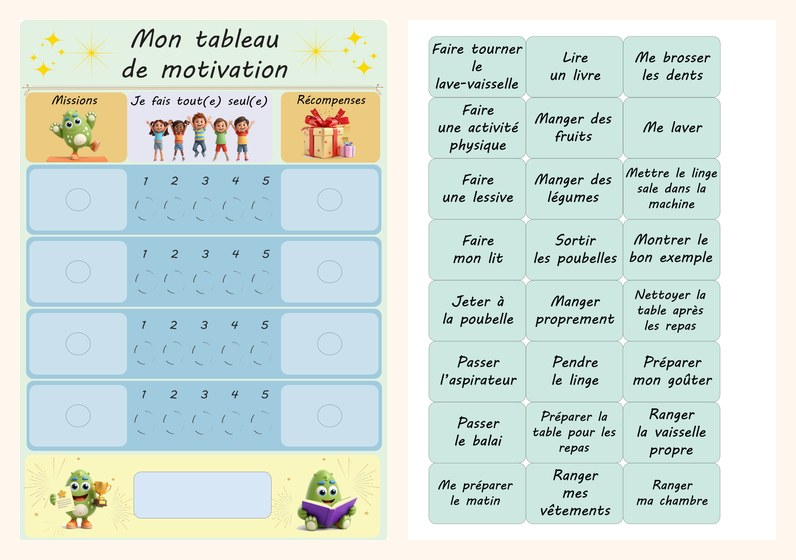
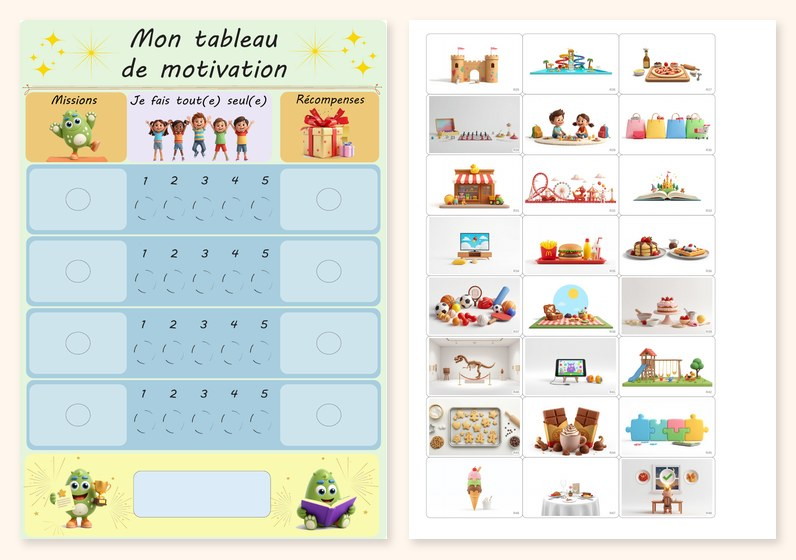
Aperçus des tableaux à imprimer refaits avec les cartes récompense 3D + liens anti-cache (FR/EN)
Claude-Session: https://claude.ai/code/session_01FFaDQAFChRBjUAWysgJmhv

diff --git a/imprimer/index.html b/imprimer/index.html
@@ -7,7 +7,7 @@
 <meta name="description" content="Tableaux de motivation à imprimer gratuitement pour les enfants de 3 à 10 ans, avec cartes de routines en images ou en phrases. Imprimez, plastifiez, et c'est parti !">
 <meta property="og:title" content="Tableau de motivation enfant à imprimer gratuit">
 <meta property="og:description" content="3 tableaux à imprimer avec leurs cartes de routines, pour les enfants de 3 à 10 ans.">
-<meta property="og:image" content="apercu-1.jpg">
+<meta property="og:image" content="apercu-1.jpg?v=20261118b">
 <link rel="alternate" hreflang="en" href="../printables/">
 <link rel="icon" href="../images/icone.jpg">
 <link rel="preconnect" href="https://fonts.googleapis.com">
@@ -91,30 +91,30 @@ header{position:relative}
   <div class="wrap">
     <div class="kits">
       <article class="kit">
-        <img src="apercu-1.jpg" alt="Tableau de motivation avec le petit monstre vert et cartes de routines en images" width="796" height="560">
+        <img src="apercu-1.jpg?v=20261118b" alt="Tableau de motivation avec le petit monstre vert et cartes récompenses en 3D" width="796" height="560">
         <div class="body">
           <span class="age">3 à 7 ans · ne lit pas encore</span>
           <h3>Le tableau du petit monstre, cartes en images</h3>
           <p>Le tableau, 53 cartes en images (se brosser les dents, s'habiller, ranger ses jouets…) et 64 cartes récompenses en 3D.</p>
-          <a class="btn" href="tableau-motivation-3-7-ans-cartes-images.pdf" download>Télécharger le PDF</a>
+          <a class="btn" href="tableau-motivation-3-7-ans-cartes-images.pdf?v=20261118b" download>Télécharger le PDF</a>
         </div>
       </article>
       <article class="kit">
-        <img src="apercu-2.jpg" alt="Tableau de motivation avec le petit monstre vert et cartes de routines écrites" width="796" height="560">
+        <img src="apercu-2.jpg?v=20261118b" alt="Tableau de motivation avec le petit monstre vert et cartes récompenses en 3D" width="796" height="560">
         <div class="body">
           <span class="age">3 à 7 ans · commence à lire</span>
           <h3>Le tableau du petit monstre, cartes en phrases</h3>
           <p>Le même tableau, 49 cartes écrites pour les enfants qui lisent, et 64 cartes récompenses en 3D.</p>
-          <a class="btn" href="tableau-motivation-3-7-ans-cartes-phrases.pdf" download>Télécharger le PDF</a>
+          <a class="btn" href="tableau-motivation-3-7-ans-cartes-phrases.pdf?v=20261118b" download>Télécharger le PDF</a>
         </div>
       </article>
       <article class="kit">
-        <img src="apercu-3.jpg" alt="Tableau de motivation avec trophée et cartes de tâches écrites pour les grands" width="796" height="560">
+        <img src="apercu-3.jpg?v=20261118b" alt="Tableau de motivation avec trophée et cartes récompenses en 3D, pour les grands" width="796" height="560">
         <div class="body">
           <span class="age">7 à 10 ans · pour les grands</span>
           <h3>Le tableau trophée, cartes en phrases</h3>
           <p>Un tableau plus « grand », 49 cartes de tâches et de routines, et 64 cartes récompenses en 3D.</p>
-          <a class="btn" href="tableau-motivation-7-10-ans-trophee.pdf" download>Télécharger le PDF</a>
+          <a class="btn" href="tableau-motivation-7-10-ans-trophee.pdf?v=20261118b" download>Télécharger le PDF</a>
         </div>
       </article>
     </div>

diff --git a/printables/index.html b/printables/index.html
@@ -7,7 +7,7 @@
 <meta name="description" content="Free printable motivation boards for kids aged 3 to 10, with routine cards in pictures or words. Print, laminate, and off you go!">
 <meta property="og:title" content="Free printable motivation board for kids">
 <meta property="og:description" content="3 printable boards with their routine cards, for kids aged 3 to 10.">
-<meta property="og:image" content="preview-1.jpg">
+<meta property="og:image" content="preview-1.jpg?v=20261118b">
 <link rel="alternate" hreflang="fr" href="../imprimer/">
 <link rel="icon" href="../images/icone.jpg">
 <link rel="preconnect" href="https://fonts.googleapis.com">
@@ -91,30 +91,30 @@ header{position:relative}
   <div class="wrap">
     <div class="kits">
       <article class="kit">
-        <img src="preview-1.jpg" alt="Motivation board with the little green monster and picture routine cards" width="796" height="560">
+        <img src="preview-1.jpg?v=20261118b" alt="Motivation board with the little green monster and 3D reward cards" width="796" height="560">
         <div class="body">
           <span class="age">Ages 3 to 7 · can't read yet</span>
           <h3>The little monster board, picture cards</h3>
           <p>The board, 53 picture cards (brushing teeth, getting dressed, tidying toys…) and 64 3D reward cards.</p>
-          <a class="btn" href="motivation-board-ages-3-7-picture-cards.pdf" download>Download the PDF</a>
+          <a class="btn" href="motivation-board-ages-3-7-picture-cards.pdf?v=20261118b" download>Download the PDF</a>
         </div>
       </article>
       <article class="kit">
-        <img src="preview-2.jpg" alt="Motivation board with the little green monster and written routine cards" width="796" height="560">
+        <img src="preview-2.jpg?v=20261118b" alt="Motivation board with the little green monster and 3D reward cards" width="796" height="560">
         <div class="body">
           <span class="age">Ages 3 to 7 · starting to read</span>
           <h3>The little monster board, word cards</h3>
           <p>The same board, 49 word cards for kids who can read, and 64 3D reward cards.</p>
-          <a class="btn" href="motivation-board-ages-3-7-word-cards.pdf" download>Download the PDF</a>
+          <a class="btn" href="motivation-board-ages-3-7-word-cards.pdf?v=20261118b" download>Download the PDF</a>
         </div>
       </article>
       <article class="kit">
-        <img src="preview-3.jpg" alt="Motivation board with a trophy and written chore cards for older kids" width="796" height="560">
+        <img src="preview-3.jpg?v=20261118b" alt="Motivation board with a trophy and 3D reward cards for older kids" width="796" height="560">
         <div class="body">
           <span class="age">Ages 7 to 10 · for older kids</span>
           <h3>The trophy board, word cards</h3>
           <p>A more grown-up board, 49 chore and routine cards, and 64 3D reward cards.</p>
-          <a class="btn" href="motivation-board-ages-7-10-trophy.pdf" download>Download the PDF</a>
+          <a class="btn" href="motivation-board-ages-7-10-trophy.pdf?v=20261118b" download>Download the PDF</a>
         </div>
       </article>
     </div>
